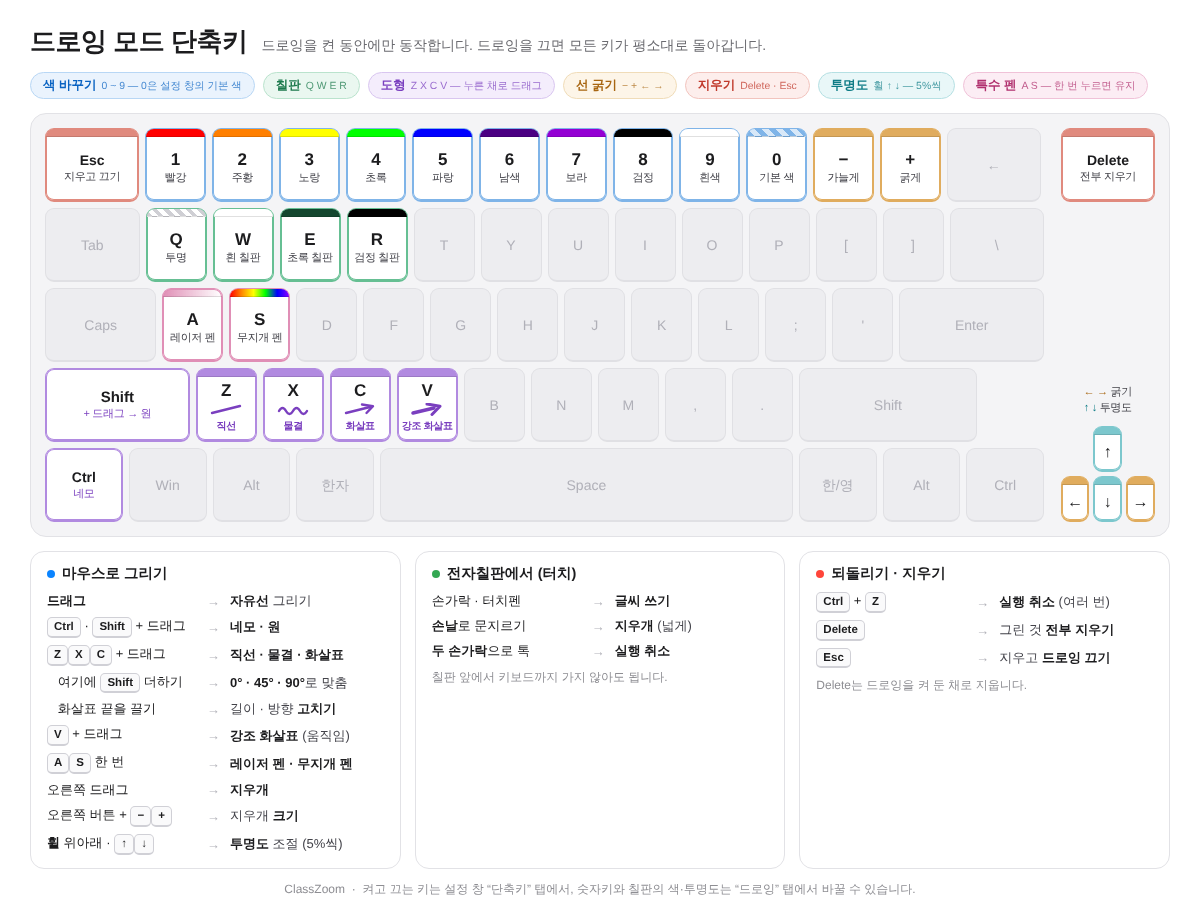
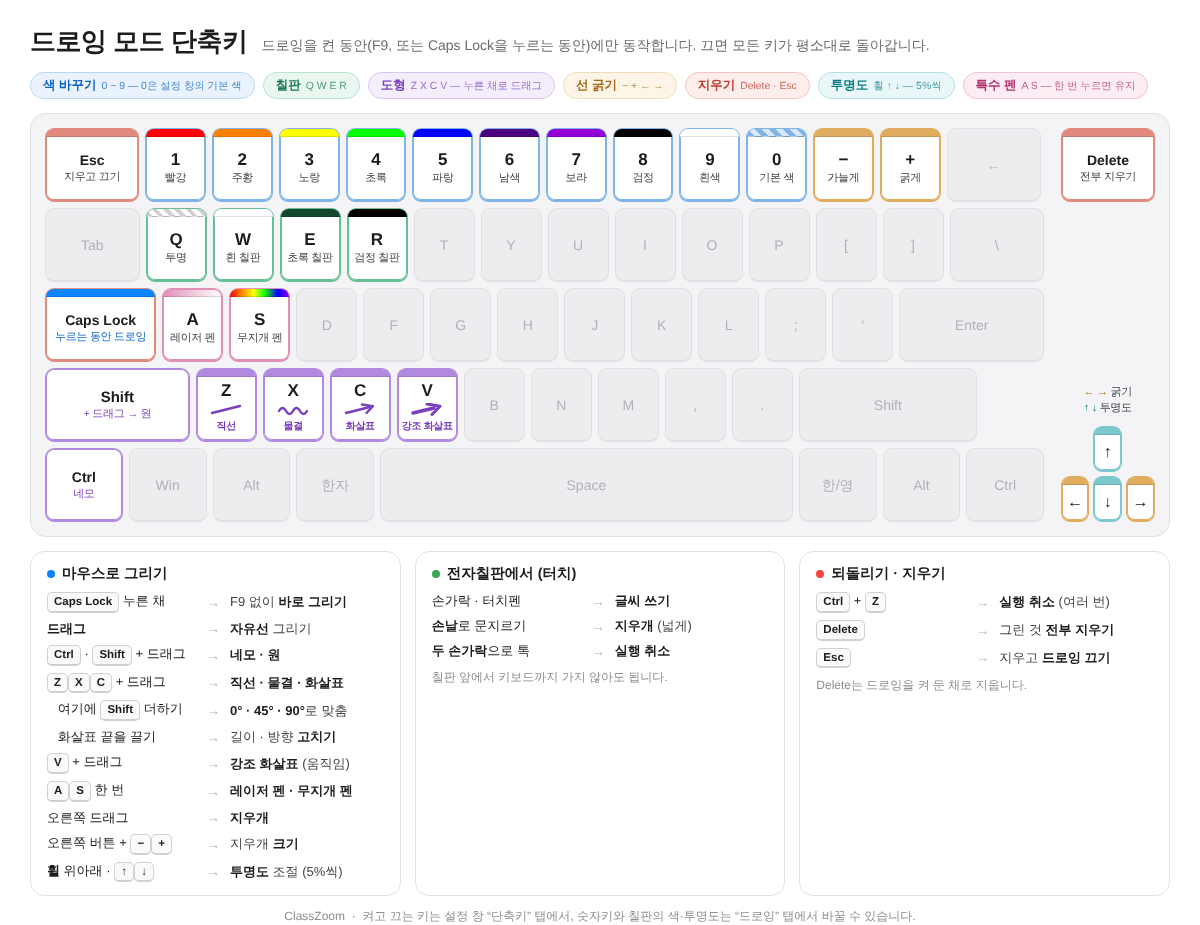
Draw while Caps Lock is held (Windows)
Holding Caps Lock turns drawing on without F9, with all drawing keys
(V emphasis arrow, C arrow, Ctrl rectangle, colours). Releasing it
turns drawing off but keeps the ink and the emphasis arrow on screen
while clicks pass through; the chosen pen carries over to the next
hold. Shift+Caps Lock still toggles capitals. A stroke in progress
finishes before drawing turns off. Can be switched off in Settings >
Hotkeys. Version 1.2.8.

Claude-Session: https://claude.ai/code/session_01A7oqvKdSjdYe6hdTFPD8rC

diff --git a/windows/shortcuts-guide.html b/windows/shortcuts-guide.html
@@ -10,7 +10,7 @@
 
     & "C:\Program Files (x86)\Microsoft\Edge\Application\msedge.exe" --headless=new --disable-gpu `
       --hide-scrollbars --virtual-time-budget=4000 --force-device-scale-factor=1 `
-      --default-background-color=FFFFFFFF --screenshot="shortcuts.png" --window-size=1200,900 `
+      --default-background-color=FFFFFFFF --screenshot="shortcuts.png" --window-size=1200,930 `
       "file:///<이 파일의 전체 경로>"
 
   키 칸 너비는 "유닛"으로 잡는다. 1유닛 = --u, 키 사이 간격 = --gap.
@@ -127,7 +127,7 @@
 
   <header>
     <h1>드로잉 모드 단축키</h1>
-    <span class="sub">드로잉을 켠 동안에만 동작합니다. 드로잉을 끄면 모든 키가 평소대로 돌아갑니다.</span>
+    <span class="sub">드로잉을 켠 동안(F9, 또는 Caps Lock을 누르는 동안)에만 동작합니다. 끄면 모든 키가 평소대로 돌아갑니다.</span>
   </header>
 
   <div class="legend">
@@ -187,7 +187,7 @@
     </div>
 
     <div class="row">
-      <div class="key k175 dim"><span class="cap">Caps</span></div>
+      <div class="key k175 on g-clear bar-top"><span class="bar" style="background:#0a84ff"></span><span class="cap" style="font-size:14px">Caps Lock</span><span class="note" style="color:#0a64c8">누르는 동안 드로잉</span></div>
       <div class="key k1 on g-pen bar-top"><span class="bar" style="background:linear-gradient(90deg,#e08fb6,rgba(224,143,182,0))"></span><span class="cap">A</span><span class="note">레이저 펜</span></div>
       <div class="key k1 on g-pen bar-top"><span class="bar" style="background:linear-gradient(90deg,#f00,#f80,#ff0,#0f0,#00f,#80f)"></span><span class="cap">S</span><span class="note">무지개 펜</span></div>
       <div class="key k1 dim"><span class="cap">D</span></div>
@@ -241,6 +241,7 @@
 
     <div class="card">
       <h2><span class="dot" style="background:#0a84ff"></span>마우스로 그리기</h2>
+      <div class="line"><span class="act"><span class="kbd">Caps Lock</span> 누른 채</span><span class="arrow">&rarr;</span><span class="what">F9 없이 <b>바로 그리기</b></span></div>
       <div class="line"><span class="act"><b>드래그</b></span><span class="arrow">&rarr;</span><span class="what"><b>자유선</b> 그리기</span></div>
       <div class="line"><span class="act"><span class="kbd">Ctrl</span> · <span class="kbd">Shift</span> + 드래그</span><span class="arrow">&rarr;</span><span class="what"><b>네모 · 원</b></span></div>
       <div class="line"><span class="act"><span class="kbd">Z</span><span class="kbd">X</span><span class="kbd">C</span> + 드래그</span><span class="arrow">&rarr;</span><span class="what"><b>직선 · 물결 · 화살표</b></span></div>

diff --git a/README.md b/README.md
@@ -72,7 +72,7 @@ ClassZoom은 화면 맨 위에 **보통 창 하나**를 띄우고, 그 안에서
 ## 하이라이트 · 드로잉
 
 - `F8` 마우스 강조, 클릭 효과(좌·우 따로)
-- `F9` 드로잉: 자유선, `Ctrl` 네모, `Shift` 원, `Z` 직선, `X` 물결, `C` 화살표(끝을 끌어 길이·방향 고침), `V` 움직이는 강조 화살표, `A` 레이저 펜, `S` 무지개 펜
+- `F9` 드로잉 (또는 **Caps Lock을 누르는 동안** 드로잉, 떼면 그림은 화면에 남고 클릭은 통과. 대문자 전환은 Shift + Caps Lock): 자유선, `Ctrl` 네모, `Shift` 원, `Z` 직선, `X` 물결, `C` 화살표(끝을 끌어 길이·방향 고침), `V` 움직이는 강조 화살표, `A` 레이저 펜, `S` 무지개 펜
 - `1`~`9` 색, `0` 기본 색, `Q`/`W`/`E`/`R` 칠판, 오른쪽 버튼 지우개, `Ctrl+Z` 실행 취소(30단계), `Delete` 전부 지우기
 - 전자칠판 터치·펜 입력, 손날 지우개, 두 손가락 실행 취소
 

diff --git a/docs/개발일지.md b/docs/개발일지.md
@@ -1,7 +1,7 @@
 # ClassZoom 개발 일지
 
 > 라이브 줌 · 마우스 하이라이트 · 드로잉 · 화면 녹화를 한 번에 하는 수업 화면 도구
-> 기간: 2026-11-16 ~ 2026-11-17 · 현재 버전 1.2.7 · Windows 10/11, macOS 14 이상
+> 기간: 2026-11-16 ~ 2026-11-17 · 현재 버전 1.2.8 · Windows 10/11, macOS 14 이상
 
 ---
 
@@ -110,6 +110,7 @@
 | 1.2.5 | 11-17 | exe 용량 54.5MB로 축소 |
 | 1.2.6 | 11-17 | GPU 녹화, 중복 실행 방지, CPU·메모리 절약, 네모·강조 화살표, 녹화 화질 창 |
 | 1.2.7 | 11-17 | macOS판에 강조 화살표·화살표 고치기 (Core Animation이라 CPU를 거의 안 씀) |
+| 1.2.8 | 11-17 | Caps Lock을 누르는 동안 드로잉 (떼면 그림은 남고 클릭은 통과) |
 
 ---
 
